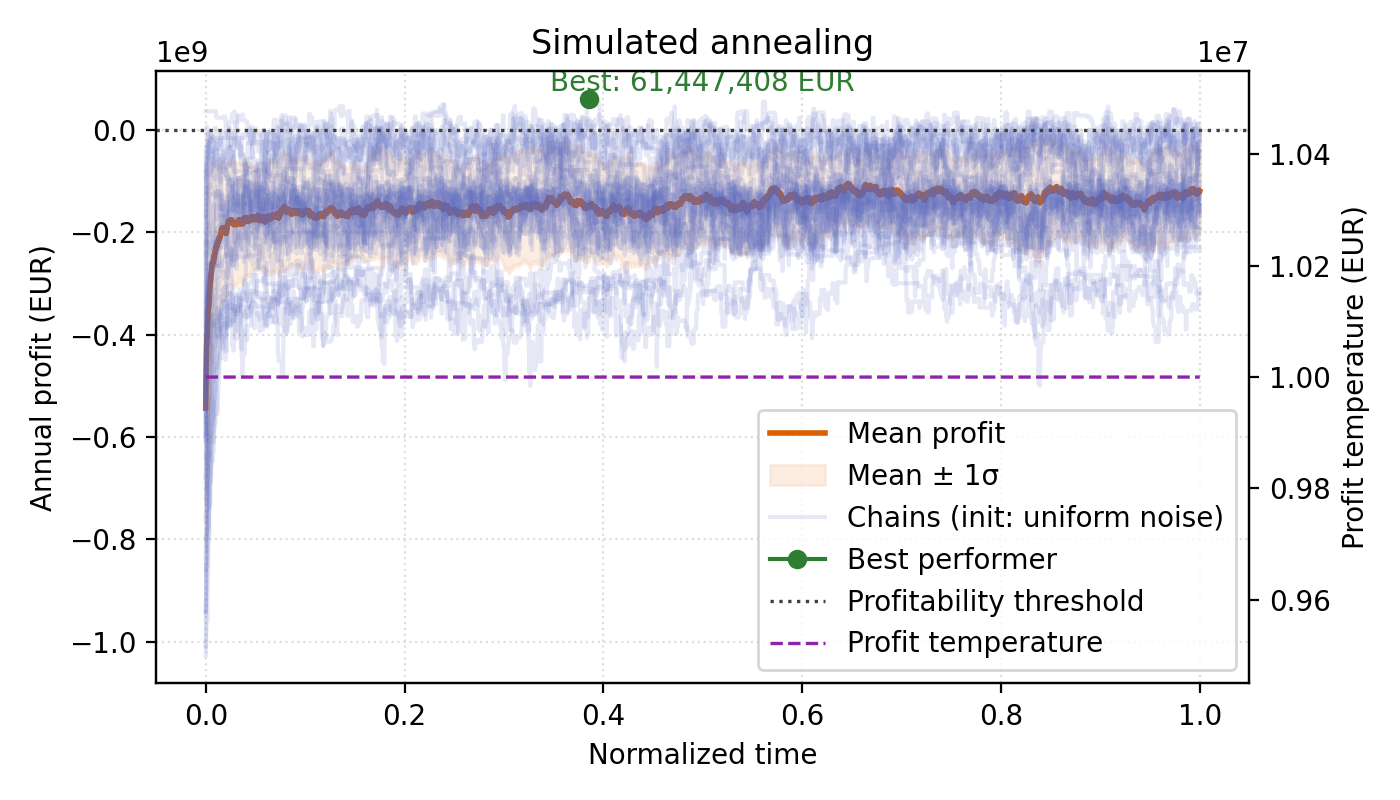
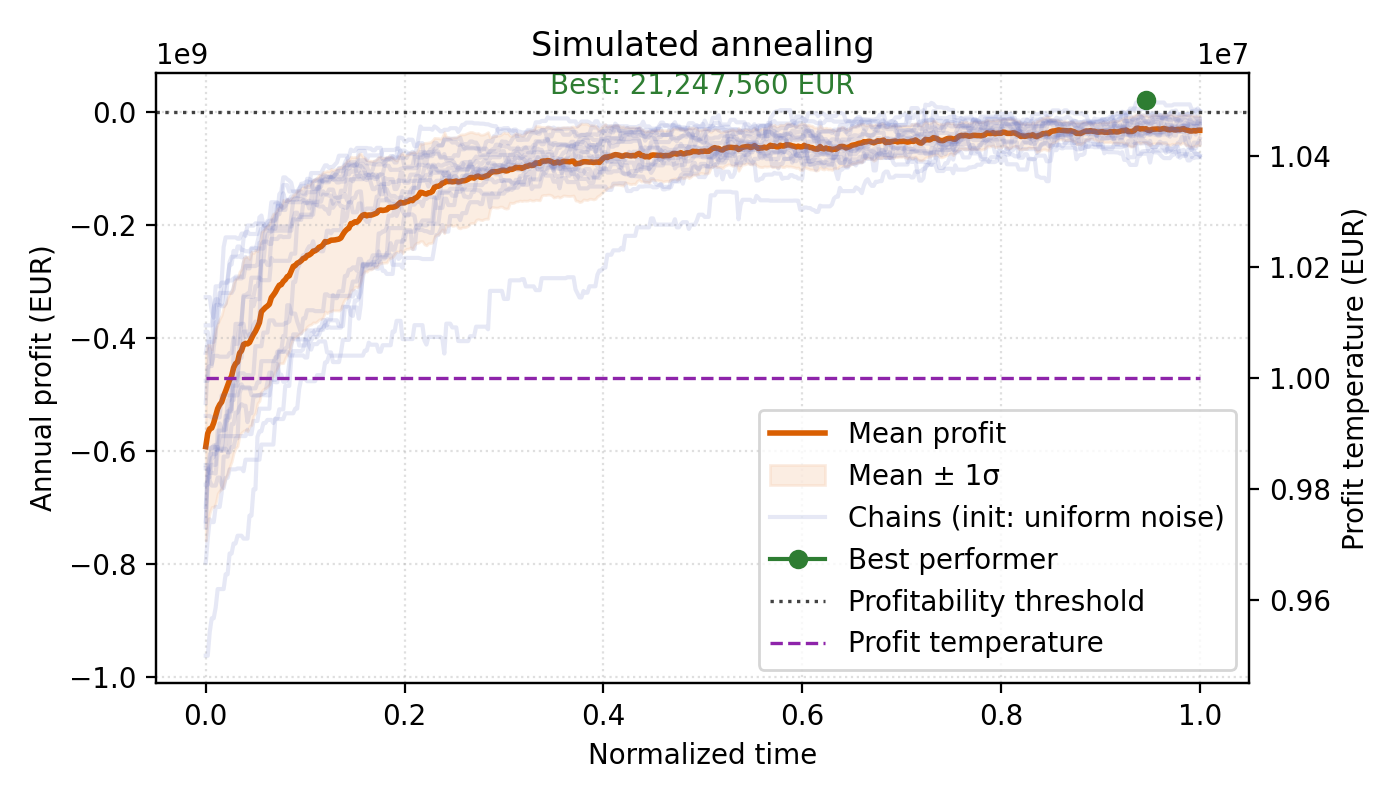
refactoring

diff --git a/energy_matching/run_simulated_annealing_with_baseline.py b/energy_matching/run_simulated_annealing_with_baseline.py
@@ -55,7 +55,9 @@ def _mark_best(ax, result, label, highlight_color, y_frac: float):
         fontsize=11,
         fontweight="bold",
         color=highlight_color,
-        bbox=dict(boxstyle="round,pad=0.2", facecolor="white", edgecolor=highlight_color, alpha=0.9),
+        bbox=dict(
+            boxstyle="round,pad=0.2", facecolor="white", edgecolor=highlight_color, alpha=0.9
+        ),
         arrowprops=dict(arrowstyle="->", color=highlight_color, linewidth=1.2),
         ha="right",
         zorder=7,
@@ -84,7 +86,9 @@ def _delta_corr_stats(result) -> tuple[float, float]:
 
 def plot_comparison(guided, baseline, output_path: Path) -> None:
     if guided.times.shape != baseline.times.shape:
-        raise ValueError("Guided and baseline runs must have the same number of steps to plot together.")
+        raise ValueError(
+            "Guided and baseline runs must have the same number of steps to plot together."
+        )
 
     fig, (ax_energy, ax_profit, ax_sched) = plt.subplots(1, 3, figsize=(18, 5))
 
@@ -101,7 +105,9 @@ def plot_comparison(guided, baseline, output_path: Path) -> None:
     ax_energy.legend(loc="best")
 
     _plot_series(ax_profit, guided.times.numpy(), guided.profits, "Guided profit", "#1976d2", "-")
-    _plot_series(ax_profit, baseline.times.numpy(), baseline.profits, "Baseline profit", "#6d4c41", "--")
+    _plot_series(
+        ax_profit, baseline.times.numpy(), baseline.profits, "Baseline profit", "#6d4c41", "--"
+    )
     _mark_best(ax_profit, guided, "guided", "#ffb300", y_frac=0.7)
     _mark_best(ax_profit, baseline, "baseline", "#8e24aa", y_frac=0.5)
     ax_profit.set_xlabel("Normalized time")
@@ -116,12 +122,25 @@ def plot_comparison(guided, baseline, output_path: Path) -> None:
     ax_sched_right = None
     if guided.profit_temps is not None and guided.profit_temps.numel() > 0:
         t_sched = np.linspace(0.0, 1.0, guided.profit_temps.shape[0])
-        h = ax_sched.plot(t_sched, guided.profit_temps.numpy(), color="#1976d2", linewidth=2.0, label="Guided profit temp")[0]
+        h = ax_sched.plot(
+            t_sched,
+            guided.profit_temps.numpy(),
+            color="#1976d2",
+            linewidth=2.0,
+            label="Guided profit temp",
+        )[0]
         sched_handles.append(h)
         sched_labels.append("Guided profit temp")
     if baseline.profit_temps is not None and baseline.profit_temps.numel() > 0:
         t_sched = np.linspace(0.0, 1.0, baseline.profit_temps.shape[0])
-        h = ax_sched.plot(t_sched, baseline.profit_temps.numpy(), color="#6d4c41", linestyle="--", linewidth=2.0, label="Baseline profit temp")[0]
+        h = ax_sched.plot(
+            t_sched,
+            baseline.profit_temps.numpy(),
+            color="#6d4c41",
+            linestyle="--",
+            linewidth=2.0,
+            label="Baseline profit temp",
+        )[0]
         sched_handles.append(h)
         sched_labels.append("Baseline profit temp")
     if guided.guide_strengths is not None and guided.guide_strengths.numel() > 0:
@@ -129,7 +148,13 @@ def plot_comparison(guided, baseline, output_path: Path) -> None:
             t_sched = np.linspace(0.0, 1.0, guided.guide_strengths.shape[0])
             if ax_sched_right is None:
                 ax_sched_right = ax_sched.twinx()
-            h = ax_sched_right.plot(t_sched, guided.guide_strengths.numpy(), color="#ffb300", linewidth=2.0, label="Guide strength")[0]
+            h = ax_sched_right.plot(
+                t_sched,
+                guided.guide_strengths.numpy(),
+                color="#ffb300",
+                linewidth=2.0,
+                label="Guide strength",
+            )[0]
             sched_handles.append(h)
             sched_labels.append("Guide strength")
     ax_sched.set_xlabel("Normalized time")
@@ -149,9 +174,11 @@ def plot_comparison(guided, baseline, output_path: Path) -> None:
 
 
 def main():
-    parser = argparse.ArgumentParser(description="Compare guided and random baseline simulated annealing runs.")
+    parser = argparse.ArgumentParser(
+        description="Compare guided and random baseline simulated annealing runs."
+    )
     parser.add_argument("--checkpoint", type=str, required=True)
-    parser.add_argument("--data-path", type=str, default="positive_samples.json")
+    parser.add_argument("--data-path", type=str, default="energy_matching/positive_samples.json")
     parser.add_argument("--num-chains", type=int, default=16)
     parser.add_argument("--steps", type=int, default=500)
     parser.add_argument("--total-time", type=float, default=1.0)
@@ -161,12 +188,18 @@ def main():
     parser.add_argument("--guide-prob", type=float, default=0.7)
     parser.add_argument("--guide-beta", type=float, default=10.0)
     parser.add_argument("--guide-lambda", type=float, default=1.0)
-    parser.add_argument("--profit-schedule", type=str, choices=["constant", "linear"], default="linear")
+    parser.add_argument(
+        "--profit-schedule", type=str, choices=["constant", "linear"], default="linear"
+    )
     parser.add_argument("--profit-final-ratio", type=float, default=0.01)
-    parser.add_argument("--guide-schedule", type=str, choices=["constant", "linear"], default="linear")
+    parser.add_argument(
+        "--guide-schedule", type=str, choices=["constant", "linear"], default="linear"
+    )
     parser.add_argument("--guide-final-ratio", type=float, default=0.2)
-    parser.add_argument("--output", type=str, default="figures/solver_simulated_annealing_with_baseline.png")
-    parser.add_argument("--hidden-sizes", type=int, nargs="+", default=[512, 512, 512])
+    parser.add_argument(
+        "--output", type=str, default="figures/solver_simulated_annealing_with_baseline.png"
+    )
+    parser.add_argument("--hidden-sizes", type=int, nargs="+", default=[64, 64, 64])
     parser.add_argument("--dropout", type=float, default=0.0)
     parser.add_argument("--cpu", action="store_true")
     parser.add_argument("--seed", type=int, default=None)

diff --git a/energy_matching/train_energy_matching.py b/energy_matching/train_energy_matching.py
@@ -12,7 +12,9 @@ from tqdm import tqdm
 from energy_matching import data as data_mod, model as model_mod, noise
 
 
-def pair_with_noise(x_data: torch.Tensor, device: torch.device) -> Tuple[torch.Tensor, torch.Tensor, torch.Tensor]:
+def pair_with_noise(
+    x_data: torch.Tensor, device: torch.device
+) -> Tuple[torch.Tensor, torch.Tensor, torch.Tensor]:
     batch_size = x_data.size(0)
     x_noise = noise.sample_uniform_noise(batch_size, device=device)
     t = torch.rand(batch_size, 1, device=device)
@@ -24,7 +26,9 @@ def pair_with_noise(x_data: torch.Tensor, device: torch.device) -> Tuple[torch.T
 def train(cfg):
     device = torch.device("cuda" if torch.cuda.is_available() and not cfg.cpu else "cpu")
     dataset = data_mod.PositiveSamplesDataset(cfg.data_path)
-    dataloader = DataLoader(dataset, batch_size=cfg.batch_size, shuffle=True, num_workers=cfg.num_workers)
+    dataloader = DataLoader(
+        dataset, batch_size=cfg.batch_size, shuffle=True, num_workers=cfg.num_workers
+    )
 
     model = model_mod.build_energy_model(cfg.hidden_sizes, cfg.dropout).to(device)
     optimizer = torch.optim.AdamW(model.parameters(), lr=cfg.lr, weight_decay=cfg.weight_decay)
@@ -55,7 +59,10 @@ def train(cfg):
         if cfg.checkpoint_dir:
             ckpt_path = Path(cfg.checkpoint_dir)
             ckpt_path.mkdir(parents=True, exist_ok=True)
-            torch.save({"model": model.state_dict(), "epoch": epoch + 1}, ckpt_path / f"energy_model_epoch_{epoch+1}.pt")
+            torch.save(
+                {"model": model.state_dict(), "epoch": epoch + 1},
+                ckpt_path / f"energy_model_epoch_{epoch+1}.pt",
+            )
 
     if cfg.log_path:
         with open(cfg.log_path, "w", encoding="utf-8") as f:
@@ -63,13 +70,15 @@ def train(cfg):
 
 
 def parse_args():
-    parser = argparse.ArgumentParser(description="Train Energy Matching scalar network on SMR dataset.")
-    parser.add_argument("--data-path", type=str, default="positive_samples.json")
+    parser = argparse.ArgumentParser(
+        description="Train Energy Matching scalar network on SMR dataset."
+    )
+    parser.add_argument("--data-path", type=str, default="energy_matching/positive_samples.json")
     parser.add_argument("--batch-size", type=int, default=64)
     parser.add_argument("--epochs", type=int, default=10)
     parser.add_argument("--lr", type=float, default=1e-4)
     parser.add_argument("--weight-decay", type=float, default=1e-4)
-    parser.add_argument("--hidden-sizes", type=int, nargs="+", default=[512, 512, 512])
+    parser.add_argument("--hidden-sizes", type=int, nargs="+", default=[64, 64, 64])
     parser.add_argument("--dropout", type=float, default=0.0)
     parser.add_argument("--num-workers", type=int, default=0)
     parser.add_argument("--cpu", action="store_true")

diff --git a/energy_matching/train_energy_matching_main.py b/energy_matching/train_energy_matching_main.py
@@ -168,13 +168,13 @@ def train(cfg):
 
 def parse_args():
     parser = argparse.ArgumentParser(description="Main Energy Matching training with FM + CD objectives.")
-    parser.add_argument("--data-path", type=str, default="positive_samples.json")
+    parser.add_argument("--data-path", type=str, default="energy_matching/positive_samples.json")
     parser.add_argument("--resume", type=str, default="energy_checkpoints/energy_model_epoch_20.pt")
     parser.add_argument("--batch-size", type=int, default=64)
     parser.add_argument("--epochs", type=int, default=5)
     parser.add_argument("--lr", type=float, default=1e-4)
     parser.add_argument("--weight-decay", type=float, default=1e-4)
-    parser.add_argument("--hidden-sizes", type=int, nargs="+", default=[512, 512, 512])
+    parser.add_argument("--hidden-sizes", type=int, nargs="+", default=[64, 64, 64])
     parser.add_argument("--dropout", type=float, default=0.0)
     parser.add_argument("--num-workers", type=int, default=0)
     parser.add_argument("--cpu", action="store_true")
